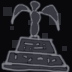
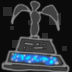
The goddesses now offer mana, but only once

Changed region(s): [[0.1389, 0.7222, 0.8333, 0.9167]]

diff --git a/BondageClub/Screens/MiniGame/KinkyDungeon/KinkyDungeonShrine.js b/BondageClub/Screens/MiniGame/KinkyDungeon/KinkyDungeonShrine.js
@@ -23,6 +23,9 @@ var KinkyDungeonShrineBaseCostGrowth = {
 var KinkyDungeonShopItems = [];
 var KinkyDungeonShopIndex = 0;
 
+var KinkyDungeonPoolUses = 0;
+var KinkyDungeonShrinePoolChancePerUse = 0.25;
+
 var KinkyDungeonShrineCosts = {};
 var KinkyDungeonShrineTypeRemove = ["Charms", "Leather", "Metal", "Rope", "Gags", "Blindfolds", "Boots"]; // These shrines will always remove restraints associated with their shrine
 
@@ -141,7 +144,7 @@ function KinkyDungeonHandleShrine() {
 
 		}
 	} else {
-		if (cost > 0 && MouseIn(675, 825, 350, 60)) {
+		if (cost > 0 && MouseIn(675, 825, 300, 60)) {
 			KinkyDungeonAdvanceTime(1, true);
 			KinkyDungeonTargetTile = null;
 			if (KinkyDungeonGold > cost) {
@@ -159,6 +162,24 @@ function KinkyDungeonHandleShrine() {
 				KinkyDungeonActionMessageColor = "red";
 			}
 			KinkyDungeonMultiplayerUpdate(KinkyDungeonNextDataSendTimeDelay);
+			return true;
+		} else if (KinkyDungeonPoolUses <= 1 / KinkyDungeonShrinePoolChancePerUse && KinkyDungeonStatMana < KinkyDungeonStatManaMax && ((cost == 0 && MouseIn(675, 825, 350, 60)) || MouseIn(1000, 825, 100, 60))) {
+			let chance = 0 + KinkyDungeonShrinePoolChancePerUse * KinkyDungeonPoolUses;
+
+			KinkyDungeonAdvanceTime(1, true);
+
+			if (Math.random() > chance) {
+				KinkyDungeonSendActionMessage(9, TextGet("KinkyDungeonPoolDrink" + Math.min(2, KinkyDungeonPoolUses)), "#AAFFFF", 2);
+				KinkyDungeonStatMana = KinkyDungeonStatManaMax;
+			} else {
+				// You have angered the gods!
+				KinkyDungeonSendActionMessage(10, TextGet("KinkyDungeonPoolDrinkAnger").replace("TYPE", TextGet("KinkyDungeonShrine" + type)), "#AA0000", 3);
+				KinkyDungeonSendTextMessage(10, TextGet("KinkyDungeonPoolDrinkAnger").replace("TYPE", TextGet("KinkyDungeonShrine" + type)), "#AA0000", 3);
+
+				KinkyDungeonShrineAngerGods(type);
+			}
+
+			KinkyDungeonPoolUses += 1;
 			return true;
 		}
 	}
@@ -184,9 +205,59 @@ function KinkyDungeonDrawShrine() {
 			}
 		}
 	} else {
-		if (cost == 0) DrawText(TextGet("KinkyDungeonLockedShrine"), 850, 850, "white", "silver");
-		else {
-			DrawButton(675, 825, 350, 60, TextGet("KinkyDungeonPayShrine").replace("XXX", "" + cost), "White", "", "");
+		if (cost == 0) {
+			DrawButton(675, 825, 350, 60, TextGet("KinkyDungeonDrinkShrine"), (KinkyDungeonPoolUses <= 1 / KinkyDungeonShrinePoolChancePerUse && KinkyDungeonStatMana < KinkyDungeonStatManaMax) ? "#AAFFFF" : "#444444", "", "");
+		} else {
+			DrawButton(675, 825, 300, 60, TextGet("KinkyDungeonPayShrine").replace("XXX", "" + cost), "White", "", "");
+			DrawButton(1000, 825, 100, 60, TextGet("KinkyDungeonDrinkShrine"), (KinkyDungeonPoolUses <= 1 / KinkyDungeonShrinePoolChancePerUse && KinkyDungeonStatMana < KinkyDungeonStatManaMax) ? "#AAFFFF" : "#444444", "", "");
 		}
+	}
+}
+
+function KinkyDungeonShrineAngerGods(Type) {
+	if (Type == "Elements") {
+		KinkyDungeonAddRestraint(KinkyDungeonGetRestraintByName("TrapGag"), 0, true); KinkyDungeonLock(KinkyDungeonGetRestraintItem("ItemMouth"), KinkyDungeonGenerateLock(true));
+
+		KinkyDungeonAddRestraint(KinkyDungeonGetRestraintByName("ChainArms"), 2, true); KinkyDungeonLock(KinkyDungeonGetRestraintItem("ItemArms"), KinkyDungeonGenerateLock(true));
+		KinkyDungeonAddRestraint(KinkyDungeonGetRestraintByName("ChainLegs"), 0, true); KinkyDungeonLock(KinkyDungeonGetRestraintItem("ItemLegs"), KinkyDungeonGenerateLock(true));
+		KinkyDungeonAddRestraint(KinkyDungeonGetRestraintByName("TrapVibe"), 0, true);
+		KinkyDungeonAddRestraint(KinkyDungeonGetRestraintByName("ChainCrotch"), 0, true); KinkyDungeonLock(KinkyDungeonGetRestraintItem("ItemTorso"), KinkyDungeonGenerateLock(true));
+
+	} else if (Type == "Conjure") {
+		KinkyDungeonAddRestraint(KinkyDungeonGetRestraintByName("TrapGag"), 0, true); KinkyDungeonLock(KinkyDungeonGetRestraintItem("ItemMouth"), KinkyDungeonGenerateLock(true));
+
+		KinkyDungeonAddRestraint(KinkyDungeonGetRestraintByName("StrongMagicRopeArms"), 4, true);
+		KinkyDungeonAddRestraint(KinkyDungeonGetRestraintByName("StrongMagicRopeLegs"), 0, true);
+		KinkyDungeonAddRestraint(KinkyDungeonGetRestraintByName("StrongMagicRopeCrotch"), 2, true);
+		KinkyDungeonAddRestraint(KinkyDungeonGetRestraintByName("TrapVibe"), 0, true);
+		KinkyDungeonAddRestraint(KinkyDungeonGetRestraintByName("StrongMagicRopeFeet"), 0, true);
+
+
+	} else if (Type == "Illusion") {
+		KinkyDungeonAddRestraint(KinkyDungeonGetRestraintByName("TrapGag"), 0, true); KinkyDungeonLock(KinkyDungeonGetRestraintItem("ItemMouth"), KinkyDungeonGenerateLock(true));
+		KinkyDungeonAddRestraint(KinkyDungeonGetRestraintByName("TrapBlindfold"), 0, true); KinkyDungeonLock(KinkyDungeonGetRestraintItem("ItemHead"), KinkyDungeonGenerateLock(true));
+
+		KinkyDungeonAddRestraint(KinkyDungeonGetRestraintByName("TrapMittens"), 0, true); KinkyDungeonLock(KinkyDungeonGetRestraintItem("ItemHands"), KinkyDungeonGenerateLock(true));
+
+		KinkyDungeonAddRestraint(KinkyDungeonGetRestraintByName("TrapVibe"), 0, true);
+		KinkyDungeonAddRestraint(KinkyDungeonGetRestraintByName("TrapBelt"), 0, true); KinkyDungeonLock(KinkyDungeonGetRestraintItem("ItemPelvis"), KinkyDungeonGenerateLock(true));
+	} else if (Type == "Leather") {
+		KinkyDungeonAddRestraint(KinkyDungeonGetRestraintByName("TrapHarness"), 4, true); KinkyDungeonLock(KinkyDungeonGetRestraintItem("ItemTorso"), KinkyDungeonGenerateLock(true));
+		KinkyDungeonAddRestraint(KinkyDungeonGetRestraintByName("TrapGag"), 0, true); KinkyDungeonLock(KinkyDungeonGetRestraintItem("ItemMouth"), KinkyDungeonGenerateLock(true));
+		KinkyDungeonAddRestraint(KinkyDungeonGetRestraintByName("TrapBlindfold"), 0, true); KinkyDungeonLock(KinkyDungeonGetRestraintItem("ItemHead"), KinkyDungeonGenerateLock(true));
+		KinkyDungeonAddRestraint(KinkyDungeonGetRestraintByName("TrapBoots"), 0, true); KinkyDungeonLock(KinkyDungeonGetRestraintItem("ItemBoots"), KinkyDungeonGenerateLock(true));
+		KinkyDungeonAddRestraint(KinkyDungeonGetRestraintByName("SturdyLeatherBeltsFeet"), 0, true); KinkyDungeonLock(KinkyDungeonGetRestraintItem("ItemFeet"), KinkyDungeonGenerateLock(true));
+		KinkyDungeonAddRestraint(KinkyDungeonGetRestraintByName("SturdyLeatherBeltsLegs"), 0, true); KinkyDungeonLock(KinkyDungeonGetRestraintItem("ItemLegs"), KinkyDungeonGenerateLock(true));
+		KinkyDungeonAddRestraint(KinkyDungeonGetRestraintByName("TrapArmbinder"), 4, true); KinkyDungeonLock(KinkyDungeonGetRestraintItem("ItemArms"), KinkyDungeonGenerateLock(true));
+	} else if (Type == "Metal") {
+		KinkyDungeonAddRestraint(KinkyDungeonGetRestraintByName("TrapGag"), 0, true); KinkyDungeonLock(KinkyDungeonGetRestraintItem("ItemMouth"), KinkyDungeonGenerateLock(true));
+		KinkyDungeonAddRestraint(KinkyDungeonGetRestraintByName("WristShackles"), 0, true); KinkyDungeonLock(KinkyDungeonGetRestraintItem("ItemArms"), KinkyDungeonGenerateLock(true));
+		KinkyDungeonAddRestraint(KinkyDungeonGetRestraintByName("AnkleShackles"), 0, true); KinkyDungeonLock(KinkyDungeonGetRestraintItem("ItemFeet"), KinkyDungeonGenerateLock(true));
+		KinkyDungeonAddRestraint(KinkyDungeonGetRestraintByName("LegShackles"), 0, true); KinkyDungeonLock(KinkyDungeonGetRestraintItem("ItemLegs"), KinkyDungeonGenerateLock(true));
+		KinkyDungeonAddRestraint(KinkyDungeonGetRestraintByName("TrapVibe"), 0, true);
+		KinkyDungeonAddRestraint(KinkyDungeonGetRestraintByName("TrapBelt"), 0, true); KinkyDungeonLock(KinkyDungeonGetRestraintItem("ItemPelvis"), KinkyDungeonGenerateLock(true));
+	} else if (Type == "Will") {
+		KinkyDungeonStatMana = 0;
+		KinkyDungeonStatStamina = 0;
 	}
 }

diff --git a/BondageClub/Screens/MiniGame/KinkyDungeon/KinkyDungeonRestraints.js b/BondageClub/Screens/MiniGame/KinkyDungeon/KinkyDungeonRestraints.js
@@ -44,18 +44,23 @@ var KinkyDungeonRestraints = [
 
 	{name: "WeakMagicRopeArms", Asset: "HempRope", Color: "#ff88AA", Group: "ItemArms", magic: false, power: 5, weight: 1, escapeChance: {"Struggle": 0.3, "Cut": 0.67, "Remove": 0.2}, enemyTags: {"ropeMagicWeak":2}, playerTags: {}, minLevel: 0, floors: [], shrine: ["Rope"]},
 	{name: "WeakMagicRopeLegs", Asset: "HempRope", Type: "FullBinding", Color: "#ff88AA", Group: "ItemLegs", magic: false, power: 3, weight: 1, escapeChance: {"Struggle": 0.3, "Cut": 0.67, "Remove": 0.2}, enemyTags: {"ropeMagicWeak":2}, playerTags: {}, minLevel: 0, floors: [], shrine: ["Rope"]},
+	{name: "StrongMagicRopeArms", Asset: "HempRope", Color: "#ffAAdd", Group: "ItemArms", magic: false, power: 6, weight: 1, escapeChance: {"Struggle": 0.15, "Cut": 0.2, "Remove": 0}, enemyTags: {"ropeMagicStrong":2}, playerTags: {}, minLevel: 0, floors: [], shrine: ["Rope"]},
+	{name: "StrongMagicRopeLegs", Asset: "HempRope", Type: "FullBinding", Color: "#ffAAdd", Group: "ItemLegs", magic: false, power: 5, weight: 1, escapeChance: {"Struggle": 0.15, "Cut": 0.2, "Remove": 0}, enemyTags: {"ropeMagicStrong":2}, playerTags: {}, minLevel: 0, floors: [], shrine: ["Rope"]},
+	{name: "StrongMagicRopeFeet", Asset: "HempRope", Color: "#ffAAdd", Group: "ItemFeet", magic: false, power: 5, weight: 1, escapeChance: {"Struggle": 0.15, "Cut": 0.2, "Remove": 0}, enemyTags: {"ropeMagicStrong":2}, playerTags: {}, minLevel: 0, floors: [], shrine: ["Rope"]},
+	{name: "StrongMagicRopeCrotch", Asset: "HempRope", Type: "OverPanties", OverridePriority: 25, Color: "#ffAAdd", Group: "ItemPelvis", magic: false, power: 5, weight: 1, escapeChance: {"Struggle": 0.15, "Cut": 0.2, "Remove": 0}, enemyTags: {"ropeMagicStrong":2}, playerTags: {}, minLevel: 0, floors: [], shrine: ["Rope"]},
 
 	{name: "StickySlime", Asset: "Web", Type: "Wrapped", Color: "#ff77ff", Group: "ItemArms", magic: false, power: 0, weight: 1, freeze: true, escapeChance: {"Struggle": 10, "Cut": 10, "Remove": 10}, enemyTags: {"slime":100}, playerTags: {}, minLevel: 0, floors: [], shrine: ["Slime"]},
 
 	{inventory: true, name: "TrapArmbinder", Asset: "LeatherArmbinder", Type: "WrapStrap", Group: "ItemArms", magic: false, power: 8, weight: 2, escapeChance: {"Struggle": 0.1, "Cut": 0.33, "Remove": 0.4, "Pick": 0.0}, enemyTags: {"trap":100}, playerTags: {}, minLevel: 0, floors: [], shrine: ["Leather", "Armbinders"]},
 	{inventory: true, name: "TrapCuffs", Asset: "MetalCuffs", Group: "ItemArms", magic: false, power: 4, weight: 2, DefaultLock: "Red", escapeChance: {"Struggle": 0.0, "Cut": -0.25, "Remove": 10, "Pick": 2.5}, enemyTags: {"trap":100}, playerTags: {}, minLevel: 0, floors: [], shrine: ["Metal", "Cuffs"]},
-	{inventory: true, name: "TrapHarness", Asset: "LeatherStrapHarness", Color: "#222222", Group: "ItemTorso", magic: false, power: 3, weight: 2, harness: true, escapeChance: {"Struggle": 0.0, "Cut": 0.5, "Remove": 0.8, "Pick": 1.0}, enemyTags: {"trap":100}, playerTags: {}, minLevel: 0, floors: [], shrine: ["Leather"]},
+	{inventory: true, name: "TrapHarness", Asset: "LeatherStrapHarness", OverridePriority: 25, Color: "#222222", Group: "ItemTorso", magic: false, power: 3, weight: 2, harness: true, escapeChance: {"Struggle": 0.0, "Cut": 0.5, "Remove": 0.8, "Pick": 1.0}, enemyTags: {"trap":100}, playerTags: {}, minLevel: 0, floors: [], shrine: ["Leather"]},
 	{inventory: true, name: "TrapGag", Asset: "BallGag", Type: "Tight", Color: ["Default", "Default"], Group: "ItemMouth", magic: false, power: 4, weight: 2, escapeChance: {"Struggle": 0.15, "Cut": 0.4, "Remove": 0.65, "Pick": 0.5}, enemyTags: {"trap":100}, playerTags: {}, minLevel: 0, floors: [], shrine: ["Leather", "Gags"]},
 	{inventory: true, name: "TrapBlindfold", Asset: "LeatherBlindfold", Color: "Default", Group: "ItemHead", magic: false, power: 3, weight: 2, escapeChance: {"Struggle": 0.3, "Cut": 0.4, "Remove": 0.65, "Pick": 0.5}, enemyTags: {"trap":100}, playerTags: {}, minLevel: 0, floors: [], shrine: ["Leather", "Blindfolds"]},
 	{inventory: true, name: "TrapBoots", Asset: "BalletHeels", Color: "Default", Group: "ItemBoots", magic: false, slowboots: true, power: 3, weight: 2, escapeChance: {"Struggle": 0.15, "Cut": 0.4, "Remove": 0.4, "Pick": 0.9}, enemyTags: {"trap":100}, playerTags: {}, minLevel: 0, floors: [], shrine: ["Leather", "Boots"]},
 	{inventory: true, name: "TrapLegirons", Asset: "Irish8Cuffs", Color: "Default", Group: "ItemFeet", magic: false, power: 4, weight: 2, escapeChance: {"Struggle": 0.0, "Cut": -0.4, "Remove": 10, "Pick": 2.5}, enemyTags: {"trap":100}, playerTags: {}, minLevel: 0, floors: [], shrine: ["Metal", "Cuffs"]},
 	{inventory: true, name: "TrapBelt", Asset: "PolishedChastityBelt", OverridePriority: 20, Color: "Default", Group: "ItemPelvis", magic: false, chastity: true, power: 4, weight: 2, escapeChance: {"Struggle": 0.0, "Cut": -0.10, "Remove": 100.0, "Pick": 1.0}, enemyTags: {"trap":100}, playerTags: {}, minLevel: 0, floors: [], shrine: ["Metal", "Chastity"]},
-	{inventory: true, name: "TrapVibe", Asset: "TapedClitEgg", Color: "Default", Group: "ItemVulvaPiercings", magic: false, intensity: 1, orgasm: false, power: 1, battery: 0, maxbattery: 30, weight: 2, escapeChance: {"Struggle": 0.1, "Cut": -10, "Remove": 10}, enemyTags: {"trap":100}, playerTags: {}, minLevel: 0, floors: [], shrine: ["Vibes"]},
+	{inventory: true, name: "TrapVibe", Asset: "TapedClitEgg", Color: "Default", Group: "ItemVulvaPiercings", magic: false, intensity: 1, orgasm: false, power: 1, battery: 0, maxbattery: 5, weight: 2, escapeChance: {"Struggle": 0.1, "Cut": -10, "Remove": 10}, enemyTags: {"trap":100}, playerTags: {}, minLevel: 0, floors: [], shrine: ["Vibes"]},
+	{inventory: true, name: "TrapMittens", Asset: "LeatherMittens", Color: "Default", Group: "ItemLegs", magic: false, power: 8, weight: 0, escapeChance: {"Struggle": 0.05, "Cut": 0.45, "Remove": 0.15}, enemyTags: {"leatherRestraintsHeavy":6}, playerTags: {"ItemHandsFull":-2}, minLevel: 0, floors: [1, 2, 3, 4, 5, 6, 7, 8, 9 , 10], shrine: ["Leather"]},
 
 	{inventory: true, name: "ClothGag", Asset: "ClothGag", Type: "OTN", Color: "Default", Group: "ItemMouth2", magic: false, power: 0, weight: 2, escapeChance: {"Struggle": 0.5, "Cut": 1.0, "Remove": 0.8}, enemyTags: {"clothRestraints":8}, playerTags: {}, minLevel: 0, floors: [0, 1, 2, 3, 4, 5, 6, 7, 8, 9, 10], shrine: ["Leather", "Gags"]},
 	{inventory: true, name: "ClothBlindfold", Asset: "ClothBlindfold", Color: "Default", Group: "ItemHead", magic: false, power: 0, weight: 2, escapeChance: {"Struggle": 0.5, "Cut": 1.0, "Remove": 0.8}, enemyTags: {"clothRestraints":8}, playerTags: {}, minLevel: 0, floors: [0, 1, 2, 3, 4, 5, 6, 7, 8, 9, 10], shrine: ["Leather", "Blindfolds"]},

diff --git a/BondageClub/Screens/MiniGame/KinkyDungeon/KinkyDungeonStats.js b/BondageClub/Screens/MiniGame/KinkyDungeon/KinkyDungeonStats.js
@@ -8,11 +8,12 @@ var KinkyDungeonStatMaxMax = 72; // Maximum any stat can get boosted to
 var KinkyDungeonStatArousalMax = 36;
 var KinkyDungeonArousalUnlockSuccessMod = 0.5; // Determines how much harder it is to insert a key while aroused. 1.0 is half success chance, 2.0 is one-third, etc.
 var KinkyDungeonStatArousal = 0;
-var KinkyDungeonStatArousalRegen = -1;
+var KinkyDungeonStatArousalRegen = -0.5;
 var KinkyDungeonStatArousalRegenStaminaRegenFactor = -0.1; // Stamina drain per time per 100 arousal
 var KinkyDungeonStatArousalMiscastChance = 0.75; // Miscast chance at max arousal
 var KinkyDungeonVibeLevel = 0;
-var KinkyDungeonArousalPerVibe = 0.05; // How much arousal per turn per vibe level
+var KinkyDungeonArousalPerVibe = 1; // How much arousal per turn per vibe energy cost
+var KinkyDungeonVibeCostPerIntensity = 0.15;
 
 var KinkyDungeonStatWillpowerExhaustion = 0;
 var KinkyDungeonSleepTurns = 0;
@@ -22,7 +23,7 @@ var KinkyDungeonSleepTurns = 0;
 var KinkyDungeonStatStaminaMax = 36;
 var KinkyDungeonStatStamina = KinkyDungeonStatStaminaMax;
 var KinkyDungeonStatStaminaRegen = 0;
-var KinkyDungeonStatStaminaRegenSleep = 0.5;
+var KinkyDungeonStatStaminaRegenSleep = 1;
 var KinkyDungeonStatManaMax = 36;
 var KinkyDungeonStatMana = KinkyDungeonStatManaMax;
 var KinkyDungeonStatManaRate = 0;
@@ -127,7 +128,7 @@ function KinkyDungeonDefaultStats() {
 }
 
 function KinkyDungeonGetVisionRadius() {
-	return (KinkyDungeonSleepTurns > 2) ? 1 : (Math.max((KinkyDungeonDeaf || KinkyDungeonStatBlind > 0) ? 1 : (KinkyDungeonBlindLevel > 2) ? 2 : 3, Math.floor(KinkyDungeonMapBrightness*(1.0 - 0.33 * KinkyDungeonBlindLevel))));
+	return (KinkyDungeonSleepTurns > 2 || KinkyDungeonStatStamina == 0) ? 1 : (Math.max((KinkyDungeonDeaf || KinkyDungeonStatBlind > 0) ? 1 : (KinkyDungeonBlindLevel > 2) ? 2 : 3, Math.floor(KinkyDungeonMapBrightness*(1.0 - 0.33 * KinkyDungeonBlindLevel))));
 }
 
 function KinkyDungeonDealDamage(Damage) {
@@ -240,7 +241,7 @@ function KinkyDungeonCalculateVibeLevel() {
 	for (let I = 0; I < KinkyDungeonInventory.length; I++) {
 		if (KinkyDungeonInventory[I] && KinkyDungeonInventory[I].restraint && KinkyDungeonInventory[I].restraint.intensity) {
 			let vibe = KinkyDungeonInventory[I].restraint;
-			let drain = vibe.battery - Math.max(0, vibe.battery - vibe.intensity/2);
+			let drain = vibe.battery - Math.max(0, vibe.battery - KinkyDungeonVibeCostPerIntensity * vibe.intensity);
 			if (drain > 0)
 				KinkyDungeonVibeLevel = Math.max(KinkyDungeonVibeLevel + drain/4, drain);
 
@@ -274,8 +275,10 @@ function KinkyDungeonCalculateSlowLevel() {
 		if (InventoryItemHasEffect(InventoryGet(KinkyDungeonPlayer, "ItemLegs"), "Block", true) || InventoryItemHasEffect(InventoryGet(KinkyDungeonPlayer, "ItemLegs"), "KneelFreeze", true)) KinkyDungeonSlowLevel += 1.0;
 		if (InventoryItemHasEffect(InventoryGet(KinkyDungeonPlayer, "ItemFeet"), "Block", true) || InventoryItemHasEffect(InventoryGet(KinkyDungeonPlayer, "ItemFeet"), "Freeze", true) || InventoryItemHasEffect(InventoryGet(KinkyDungeonPlayer, "ItemFeet"), "Slow", true)) KinkyDungeonSlowLevel += 1;
 		if (boots && boots.restraint && boots.restraint.slowboots) KinkyDungeonSlowLevel += 1.0;
+		if (KinkyDungeonStatStamina < 0.5) KinkyDungeonSlowLevel = Math.max(3, KinkyDungeonSlowLevel + 2);
 		if (KinkyDungeonPlayer.Pose.includes("Kneel")) KinkyDungeonSlowLevel = Math.max(3, KinkyDungeonSlowLevel + 1);
 		if (KinkyDungeonPlayer.Pose.includes("Hogtied")) KinkyDungeonSlowLevel = Math.max(5, KinkyDungeonSlowLevel + 1);
+
 
 		for (let I = 0; I < KinkyDungeonInventory.length; I++) {
 			if (KinkyDungeonInventory[I] && KinkyDungeonInventory[I].restraint && KinkyDungeonInventory[I].restraint.freeze) {

diff --git a/BondageClub/Screens/MiniGame/KinkyDungeon/KinkyDungeonHUD.js b/BondageClub/Screens/MiniGame/KinkyDungeon/KinkyDungeonHUD.js
@@ -54,7 +54,7 @@ function KinkyDungeonDrawInputs() {
 			if (KinkyDungeonPlayer.IsBlind() < 1) {
 				if (sg.lock == "Red") {color = "#ff8888"; locktext = TextGet("KinkyRedLockAbr");}
 				if (sg.lock == "Blue") {color = "#8888FF"; locktext = TextGet("KinkyBlueLockAbr");}
-			}
+			} else color = "#888888";
 
 			let GroupText = sg.name ? ("Restraint" + sg.name) : ("KinkyDungeonGroup"+ sg.group); // The name of the group to draw.
 
@@ -258,7 +258,7 @@ function KinkyDungeonHandleHUD() {
 		} else if (MouseIn(xxx, yyy + 2 * KinkyDungeonStatBarHeight, buttonWidth, buttonWidth) && KinkyDungeonItemCount("PotionMana") && KinkyDungeonStatMana < KinkyDungeonStatManaMax) {
 			KinkyDungeonUseConsumable("PotionMana", 1);
 		} else if (MouseIn(xxx, yyy + 3 * KinkyDungeonStatBarHeight, 250, 50)) {
-			KinkyDungeonSleepTurns = 10;
+			KinkyDungeonSleepTurns = 20;
 		}
 	} else if (KinkyDungeonDrawState == "Magic") {
 		if (MouseIn(925, 925, 250, 60)) { KinkyDungeonDrawState = "Game"; return true;}

diff --git a/BondageClub/Screens/MiniGame/KinkyDungeon/KinkyDungeonDress.js b/BondageClub/Screens/MiniGame/KinkyDungeon/KinkyDungeonDress.js
@@ -44,6 +44,7 @@ function KinkyDungeonDressPlayer() {
 			}
 			if (clothes.Group == "ClothLower" && clothes.Skirt) {
 				if (KinkyDungeonGetRestraintItem("ItemTorso") && KinkyDungeonGetRestraintItem("ItemTorso").restraint.harness) clothes.Lost = true;
+				if (KinkyDungeonGetRestraintItem("ItemPelvis")) clothes.Lost = true;
 			}
 			if (clothes.Group == "Shoes") {
 				if (KinkyDungeonGetRestraintItem("ItemBoots")) clothes.Lost = true;
